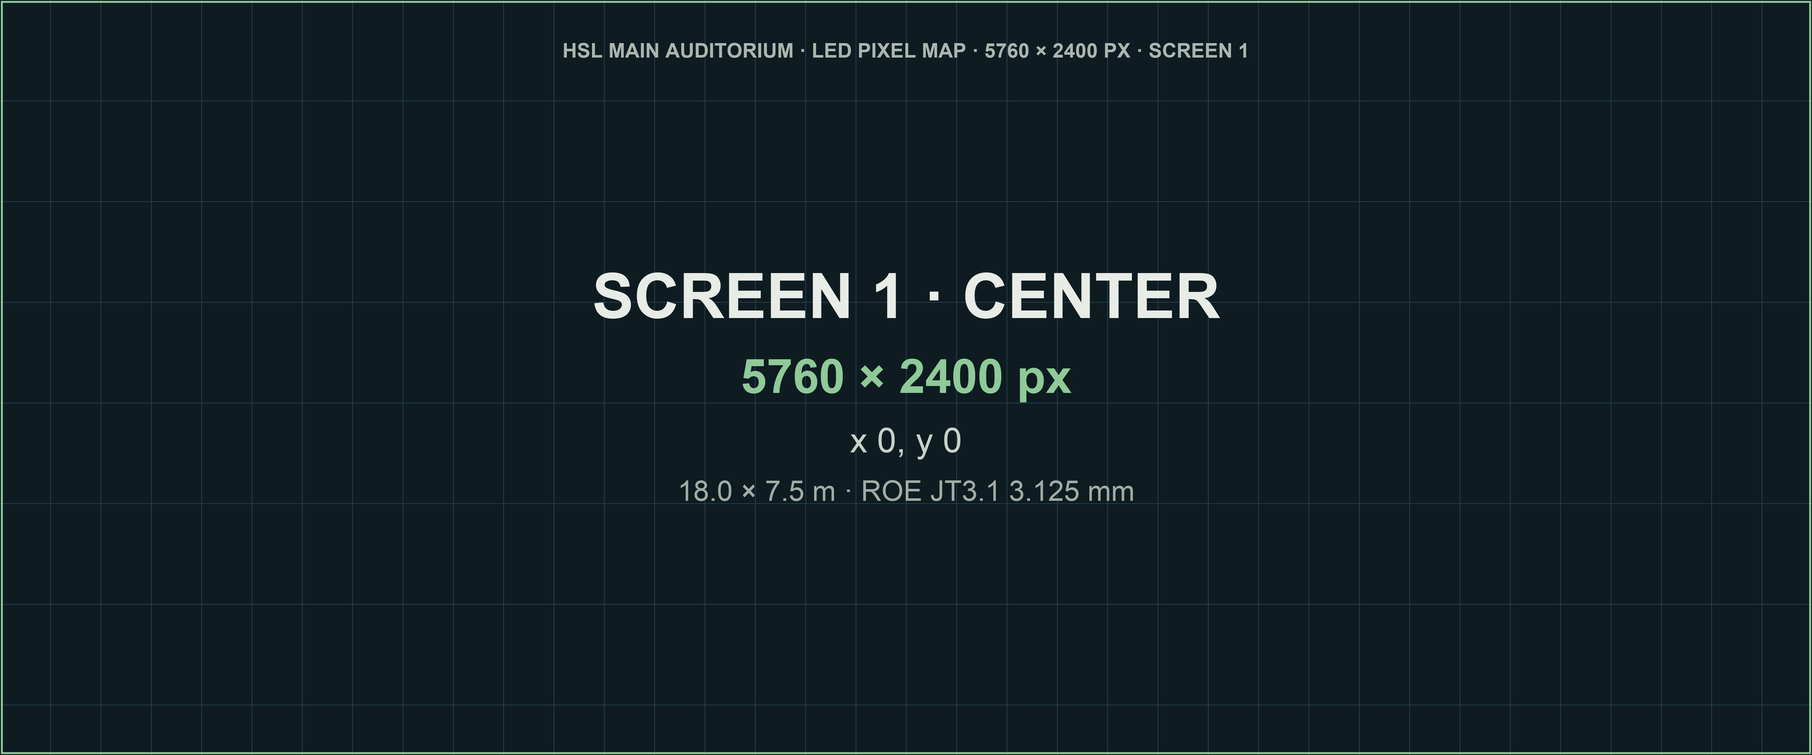
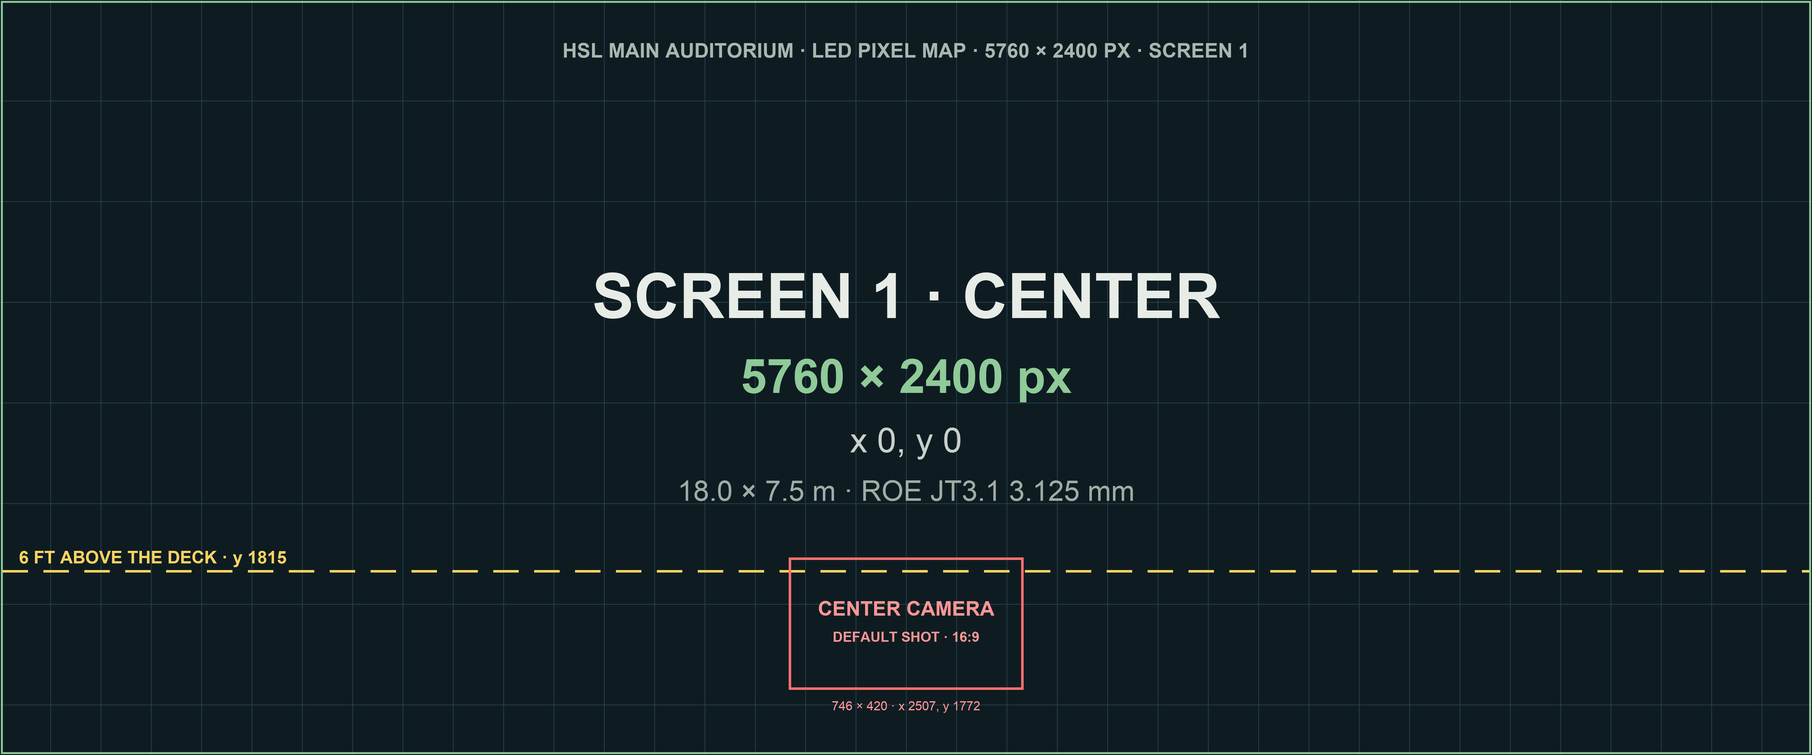
Add screen air gaps, camera box, 6 ft line and a video loader
The three-screen templates are now 12640 wide with a 560 px air gap either
side of Screen 1. Every template marks the center camera's default shot and
a 6 ft line on each screen. Editors can load a video; ProRes plays in Safari.

diff --git a/index.html b/index.html
@@ -154,6 +154,8 @@ h2 { margin: 0; font: 800 10.5px/1.25 var(--f-ui); letter-spacing: 0.14em; text-
 .pixmap svg { display: block; width: 100%; height: auto; }
 .px-scr { fill: var(--plan-bg); stroke: var(--plan); stroke-width: 2; }
 .px-ris { fill: var(--amber-bg); stroke: var(--amber); stroke-width: 2; }
+.px-gap { fill: none; stroke: var(--ink-2); stroke-width: 2; stroke-dasharray: 6 5; }
+.px-cam { fill: none; stroke: var(--warn); stroke-width: 3; }
 .px-t { fill: var(--ink); font: 800 40px var(--f-ui); text-anchor: middle; }
 .px-s { fill: var(--ink-2); font: 500 30px var(--f-mono); text-anchor: middle; }
 .px-n { fill: var(--ink-2); font: italic 400 26px var(--f-text); text-anchor: middle; }
@@ -190,6 +192,11 @@ details.truss .ctl.all label { font-weight: 800; }
 .dl a:hover { background: var(--accent-soft); border-color: var(--accent); }
 .dl a small { font: 500 11px/1.2 var(--f-mono); font-variant-numeric: tabular-nums; color: var(--ink-2); }
 .file input { position: absolute; width: 1px; height: 1px; opacity: 0; }
+.loads { display: grid; grid-template-columns: repeat(2, minmax(0, 1fr)); gap: 6px; }
+.vctl { display: grid; grid-template-columns: auto minmax(0, 1fr) auto; align-items: center; gap: 10px; }
+.vctl .btn { min-width: 64px; }
+.vctl input[type="range"] { width: 100%; margin: 0; accent-color: var(--accent); }
+.vctl output { font: 600 12px/1 var(--f-mono); font-variant-numeric: tabular-nums; color: var(--ink); }
 
 table.sight { width: 100%; border-collapse: collapse; font: 500 12px/1.3 var(--f-mono); font-variant-numeric: tabular-nums; }
 table.sight th { text-align: left; font: 700 9.5px/1.2 var(--f-ui); letter-spacing: 0.1em; text-transform: uppercase; color: var(--ink-2); padding: 0 0 6px; }
@@ -328,51 +335,66 @@ textarea.copytxt { width: 100%; min-height: 150px; font: 500 11.5px/1.45 var(--f
       <div class="pseg" role="group" aria-label="Screen content">
         <button type="button" data-content="layout" aria-pressed="true">Cabinet layout</button>
         <button type="button" data-content="sample" aria-pressed="false">Sample</button>
-        <button type="button" data-content="file" aria-pressed="false" disabled>Your PNG</button>
+        <button type="button" data-content="file" aria-pressed="false" disabled>Your file</button>
       </div>
-      <label class="file" for="pixmapFile">Load a pixel-map PNG<input type="file" id="pixmapFile" accept="image/png,image/jpeg,image/webp"></label>
+      <div class="loads">
+        <label class="file" for="pixmapFile">Load a pixel-map PNG<input type="file" id="pixmapFile" accept="image/png,image/jpeg,image/webp"></label>
+        <label class="file" for="videoFile">Load a video<input type="file" id="videoFile" accept="video/mp4,video/webm,video/quicktime,.mp4,.m4v,.webm,.mov"></label>
+      </div>
       <p class="read bad" id="pixmapWarn" hidden></p>
+      <div class="vctl" id="vidCtl" role="group" aria-label="Video playback" hidden>
+        <button type="button" class="btn" id="vidPlay">Pause</button>
+        <input type="range" id="vidTime" min="0" max="1000" step="1" value="0" aria-label="Video position">
+        <output id="vidTimeO" for="vidTime">0:00 / 0:00</output>
+      </div>
+      <p class="note">Videos play muted on a loop. Export an H.264 MP4 in the shape of one of the sizes below. A quarter-size file plays smoothly: 3160 × 640 for the full map, 3160 × 600 for the three screens, 1600 × 640 for Screen 1 and the risers, 1440 × 600 for Screen 1. ProRes plays only in Safari on a Mac, not in Chrome or Edge.</p>
       <figure class="pixmap">
-        <svg viewBox="0 0 1152 352" role="img" aria-label="Pixel map: Screen 2, Screen 1 and Screen 3 across the top, the keys and drums riser wraps in a strip centered under Screen 1">
-          <rect class="px-scr" x="1" y="1" width="286" height="238"/><rect class="px-scr" x="289" y="1" width="574" height="238"/><rect class="px-scr" x="865" y="1" width="286" height="238"/>
+        <svg viewBox="0 0 1264 352" role="img" aria-label="Pixel map: Screen 2, Screen 1 and Screen 3 across the top with an air gap either side of Screen 1, the keys and drums riser wraps in a strip centered under Screen 1">
+          <rect class="px-scr" x="1" y="1" width="286" height="238"/><rect class="px-scr" x="345" y="1" width="574" height="238"/><rect class="px-scr" x="977" y="1" width="286" height="238"/>
+          <rect class="px-gap" x="291" y="3" width="50" height="234"/><rect class="px-gap" x="923" y="3" width="50" height="234"/>
           <text class="px-t" x="144" y="112">SCREEN 2</text><text class="px-s" x="144" y="152">2880 × 2400</text>
-          <text class="px-t" x="576" y="112">SCREEN 1</text><text class="px-s" x="576" y="152">5760 × 2400</text>
-          <text class="px-t" x="1008" y="112">SCREEN 3</text><text class="px-s" x="1008" y="152">2880 × 2400</text>
-          <rect class="px-ris" x="257" y="250" width="79" height="60"/><rect class="px-ris" x="337" y="250" width="159" height="60"/><rect class="px-ris" x="497" y="250" width="79" height="60"/>
-          <rect class="px-ris" x="577" y="250" width="79" height="60"/><rect class="px-ris" x="657" y="250" width="159" height="60"/><rect class="px-ris" x="817" y="250" width="79" height="60"/>
-          <text class="px-s" x="416" y="291">KEYS</text><text class="px-s" x="736" y="291">DRUMS</text>
-          <text class="px-n" x="576" y="342">riser row drawn taller than scale</text>
+          <text class="px-t" x="632" y="112">SCREEN 1</text><text class="px-s" x="632" y="152">5760 × 2400</text>
+          <text class="px-t" x="1120" y="112">SCREEN 3</text><text class="px-s" x="1120" y="152">2880 × 2400</text>
+          <rect class="px-cam" x="595" y="178" width="74" height="42"/>
+          <rect class="px-ris" x="313" y="250" width="79" height="60"/><rect class="px-ris" x="393" y="250" width="159" height="60"/><rect class="px-ris" x="553" y="250" width="79" height="60"/>
+          <rect class="px-ris" x="633" y="250" width="79" height="60"/><rect class="px-ris" x="713" y="250" width="159" height="60"/><rect class="px-ris" x="873" y="250" width="79" height="60"/>
+          <text class="px-s" x="472" y="291">KEYS</text><text class="px-s" x="792" y="291">DRUMS</text>
+          <text class="px-n" x="632" y="342">riser row drawn taller than scale</text>
         </svg>
       </figure>
       <table class="sight pxmap">
         <thead><tr><th colspan="2">File sizes you can load</th></tr></thead>
         <tbody>
-          <tr><td>All three screens and both riser wraps</td><td>11520 × 2560</td></tr>
-          <tr><td>All three screens</td><td>11520 × 2400</td></tr>
+          <tr><td>All three screens and both riser wraps</td><td>12640 × 2560</td></tr>
+          <tr><td>All three screens</td><td>12640 × 2400</td></tr>
           <tr><td>Screen 1 and both riser wraps</td><td>6400 × 2560</td></tr>
           <tr><td>Screen 1</td><td>5760 × 2400</td></tr>
         </tbody>
       </table>
       <div class="dl" role="group" aria-label="Download a labeled template">
         <span class="k">Download a labeled template</span>
-        <a href="hsl-pixel-map-11520x2560.png" target="_blank" rel="noopener" data-dl>Full map<small>11520 × 2560</small></a>
-        <a href="hsl-pixel-map-11520x2400-screens.png" target="_blank" rel="noopener" data-dl>Three screens<small>11520 × 2400</small></a>
+        <a href="hsl-pixel-map-12640x2560.png" target="_blank" rel="noopener" data-dl>Full map<small>12640 × 2560</small></a>
+        <a href="hsl-pixel-map-12640x2400-screens.png" target="_blank" rel="noopener" data-dl>Three screens<small>12640 × 2400</small></a>
         <a href="hsl-pixel-map-6400x2560-screen-1-risers.png" target="_blank" rel="noopener" data-dl>Screen 1 + risers<small>6400 × 2560</small></a>
         <a href="hsl-pixel-map-5760x2400-screen-1.png" target="_blank" rel="noopener" data-dl>Screen 1<small>5760 × 2400</small></a>
         <p class="note dl-note" id="dlNote" aria-live="polite" hidden></p>
       </div>
-      <p class="note">The page reads a file's size to know what it fills. A 6400 × 2560 file is the full map cropped to x 2560–8960, so Screen 1 sits at x 320 with the riser strip along the bottom. Anything a file doesn't cover goes dark.</p>
+      <p class="note">The page reads a file's size to know what it fills. A 6400 × 2560 file is the full map cropped to x 3120–9520, so Screen 1 sits at x 320 with the riser strip along the bottom. Anything a file doesn't cover goes dark.</p>
       <table class="sight pxmap">
         <thead><tr><th>In the full map</th><th>Pixels</th><th>At x, y</th></tr></thead>
         <tbody>
           <tr><td>Screen 2, house left</td><td>2880 × 2400</td><td>0, 0</td></tr>
-          <tr><td>Screen 1, center</td><td>5760 × 2400</td><td>2880, 0</td></tr>
-          <tr><td>Screen 3, house right</td><td>2880 × 2400</td><td>8640, 0</td></tr>
-          <tr><td>Keys wrap: outer end, front, inner end</td><td>800 + 1600 + 800<br>× 160</td><td>2560, 2400</td></tr>
-          <tr><td>Drums wrap: inner end, front, outer end</td><td>800 + 1600 + 800<br>× 160</td><td>5760, 2400</td></tr>
+          <tr><td>Air gap, no LED</td><td>560 × 2400</td><td>2880, 0</td></tr>
+          <tr><td>Screen 1, center</td><td>5760 × 2400</td><td>3440, 0</td></tr>
+          <tr><td>Air gap, no LED</td><td>560 × 2400</td><td>9200, 0</td></tr>
+          <tr><td>Screen 3, house right</td><td>2880 × 2400</td><td>9760, 0</td></tr>
+          <tr><td>Keys wrap: outer end, front, inner end</td><td>800 + 1600 + 800<br>× 160</td><td>3120, 2400</td></tr>
+          <tr><td>Drums wrap: inner end, front, outer end</td><td>800 + 1600 + 800<br>× 160</td><td>6320, 2400</td></tr>
+          <tr><td>Center camera, default shot (16:9)</td><td>746 × 420</td><td>5947, 1772</td></tr>
+          <tr><td>6′ above the deck, dashed</td><td>every screen</td><td>y 1815</td></tr>
         </tbody>
       </table>
-      <p class="note">The full map puts the three screens at their native resolution across the top and both riser wraps in a strip centered under Screen 1, each wrap reading left to right as seen from the house. The risers are ROE JT3.1 500 mm half panels at 160 px each: ten across each front, five on each end. Files you load stay in this browser.</p>
+      <p class="note">The full map lays the three screens side by side at their native resolution, as if they stood in one plane. A 560 px air gap with no LED sits between Screen 1 and each side screen: the 5′-8½″ in the working layout. Both riser wraps sit in a strip centered under Screen 1, each wrap reading left to right as seen from the house. The risers are ROE JT3.1 500 mm half panels at 160 px each: ten across each front, five on each end. The red box on Screen 1 is what the center camera takes in at its default shot. The dashed yellow line on each screen is 6′ above the deck, where all three screens stand. Files you load stay in this browser.</p>
     </section>
 
     <section class="sec" aria-labelledby="h-scen">
@@ -411,7 +433,7 @@ textarea.copytxt { width: 100%; min-height: 150px; font: 500 11.5px/1.45 var(--f
         <p class="read" id="s-read"></p>
       </div>
 
-      <p class="note" id="placeNote">The screens sit where they will hang in February 2027. Load a pixel-map PNG above to see your graphics in the room, then use the seat buttons above the model to check them from the house.</p>
+      <p class="note" id="placeNote">The screens sit where they will hang in February 2027. Load a pixel-map PNG or a video above to see your content in the room, then use the seat and camera buttons above the model to check it from the house.</p>
       <div class="btnrow full-only">
         <button type="button" class="btn primary" id="copyBtn">Copy placement</button>
         <button type="button" class="btn" id="resetBtn">Reset to working layout</button>
@@ -1114,29 +1136,43 @@ for (const c of CAMS.filter(k => k.tilts)) {
 /* =====================================================================================
    5. SCREENS
    ===================================================================================== */
-// Pixel map: the full map is one 11520 × 2560 PNG for every LED surface. Rectangles are [x, y, w, h] in map
-// pixels and must match make_pixel_map_template.py. Riser wraps are ROE JT3.1 500 mm half panels (160 px each,
-// Solotech quote), five panels on every end and ten across each front. They read left to right as seen from the
-// house and sit centered under Screen 1, keys and drums meeting on its centerline.
+// Pixel map: the full map is one 12640 × 2560 file for every LED surface. Rectangles are [x, y, w, h] in map
+// pixels and must match make_pixel_map_template.py. The three screens sit in one plane with an air gap of no LED
+// between Screen 1 and each side screen (Brian, 18 Oct): 5'-8½" in the working layout, 560 px. Riser wraps are
+// ROE JT3.1 500 mm half panels (160 px each, Solotech quote), five panels on every end and ten across each front.
+// They read left to right as seen from the house and sit centered under Screen 1, keys and drums meeting on its
+// centerline.
 // sizes: the files a designer can load, listed under the drawing in "On the screens". Each is the map cropped to
-// start at map x `x`; a surface fills only when it sits wholly inside the crop, and the rest go dark.
+// start at map x `x`; a surface fills only when it sits wholly inside the crop, and the rest go dark. The first maps
+// (15 Oct) had no gaps; those two sizes still load, sliced as they were drawn.
+const MAP_GAP = 560;
+function mapRegions(gap) {
+  const s1 = 2880 + gap, s3 = s1 + 5760 + gap, rx = s1 - 320;
+  return {
+    left: [0, 0, 2880, 2400], center: [s1, 0, 5760, 2400], right: [s3, 0, 2880, 2400],
+    keysOuter: [rx, 2400, 800, 160], keysFront: [rx + 800, 2400, 1600, 160], keysInner: [rx + 2400, 2400, 800, 160],
+    drumsInner: [rx + 3200, 2400, 800, 160], drumsFront: [rx + 4000, 2400, 1600, 160], drumsOuter: [rx + 5600, 2400, 800, 160],
+  };
+}
+const MAP_W = 2 * 2880 + 5760 + 2 * MAP_GAP;
 const PIXMAP = {
-  regions: {
-    left: [0, 0, 2880, 2400], center: [2880, 0, 5760, 2400], right: [8640, 0, 2880, 2400],
-    keysOuter: [2560, 2400, 800, 160], keysFront: [3360, 2400, 1600, 160], keysInner: [4960, 2400, 800, 160],
-    drumsInner: [5760, 2400, 800, 160], drumsFront: [6560, 2400, 1600, 160], drumsOuter: [8160, 2400, 800, 160],
-  },
+  regions: mapRegions(MAP_GAP),
   sizes: [
-    { w: 11520, h: 2560, x: 0, fills: 'all three screens and both riser wraps' },
-    { w: 11520, h: 2400, x: 0, fills: 'all three screens' },
-    { w: 6400, h: 2560, x: 2560, fills: 'Screen 1 and both riser wraps' },
-    { w: 5760, h: 2400, x: 2880, fills: 'Screen 1' },
+    { w: MAP_W, h: 2560, x: 0, fills: 'all three screens and both riser wraps' },
+    { w: MAP_W, h: 2400, x: 0, fills: 'all three screens' },
+    { w: 6400, h: 2560, x: 2880 + MAP_GAP - 320, fills: 'Screen 1 and both riser wraps' },
+    { w: 5760, h: 2400, x: 2880 + MAP_GAP, fills: 'Screen 1' },
+  ],
+  legacy: [
+    { w: 11520, h: 2560, x: 0, fills: 'all three screens and both riser wraps', regions: mapRegions(0) },
+    { w: 11520, h: 2400, x: 0, fills: 'all three screens', regions: mapRegions(0) },
   ],
 };
 let content = 'layout';
 let showImg = null, showSize = null;   // the loaded file and the PIXMAP.sizes entry it fills
+let fileKind = null;                   // 'image' or 'video': whichever was loaded last
 function drawRegion(ctx, w, h, key) {   // paint one surface's slice of the loaded file, as the processor would
-  const r = content === 'file' && showImg && PIXMAP.regions[key], s = showSize;
+  const s = showSize, r = content === 'file' && fileKind === 'image' && showImg && (s.regions || PIXMAP.regions)[key];
   if (!r) return false;
   ctx.fillStyle = '#000';
   ctx.fillRect(0, 0, w, h);
@@ -1214,7 +1250,7 @@ function makeScreen(spec, mirror = 0, region = null) {
   back.position.z = -0.16;
   g.add(face, back);
   scene.add(g);
-  const scr = { spec, g, canvas, tex, mirror, region };
+  const scr = { spec, g, canvas, tex, mirror, region, key: region, mat: face.material };
   drawScreen(scr);
   return scr;
 }
@@ -1259,10 +1295,11 @@ function riserFace(len, key) {
   canvas.width = Math.round(120 * len); canvas.height = Math.round(120 * RISER.h);
   const tex = new THREE.CanvasTexture(canvas);
   tex.colorSpace = THREE.SRGBColorSpace;
-  const f = { canvas, tex, len, key };
+  const mesh = new THREE.Mesh(new THREE.PlaneGeometry(len, RISER.h), new THREE.MeshBasicMaterial({ map: tex, toneMapped: false }));
+  const f = { canvas, tex, len, key, mat: mesh.material };
   riserFaces.push(f);
   drawRiserFace(f);
-  return new THREE.Mesh(new THREE.PlaneGeometry(len, RISER.h), new THREE.MeshBasicMaterial({ map: tex, toneMapped: false }));
+  return mesh;
 }
 // Local frame: x across the stage (world x), front edge at z = 0, upstage toward −z
 function makeRiser(side, deepOuterHalf) {   // side −1 = house left (stage right), +1 = house right (stage left)
@@ -2010,11 +2047,42 @@ function setScenario(s) {
   document.getElementById('caption').innerHTML = caption(current);
 }
 document.querySelectorAll('[data-scen]').forEach(b => b.addEventListener('click', () => setScenario(b.dataset.scen)));
+// An editor's video, kept in this browser only: it plays muted on a loop and fills the surfaces its shape picks,
+// exactly as a PNG of that shape would. One video texture is shared, and each surface samples its own rectangle of it.
+const vid = Object.assign(document.createElement('video'), { muted: true, loop: true, playsInline: true, preload: 'auto' });
+let vidURL = null, vidTex = null, vidHeld = false;   // vidHeld: the viewer paused it
+const vidCtl = document.getElementById('vidCtl'), vidPlay = document.getElementById('vidPlay'), vidTime = document.getElementById('vidTime');
+const ledSurfaces = () => [SCR.center, SCR.left, SCR.right, ...riserFaces];
+function mapVideo() {   // each surface shows its rectangle of the video, goes dark when the file leaves it out, or shows its canvas
+  const on = content === 'file' && fileKind === 'video' && vidTex, s = showSize;
+  for (const o of ledSurfaces()) {
+    const r = on && PIXMAP.regions[o.key];
+    let map = o.tex, color = 0xffffff;
+    if (on && (r[0] < s.x || r[0] + r[2] > s.x + s.w || r[1] + r[3] > s.h)) { map = null; color = 0x000000; }
+    else if (on) {
+      map = o.vt || (o.vt = vidTex.clone());
+      map.offset.set((r[0] - s.x) / s.w, 1 - (r[1] + r[3]) / s.h);
+      map.repeat.set(r[2] / s.w, r[3] / s.h);
+    }
+    if (o.mat.map !== map) { o.mat.map = map; o.mat.needsUpdate = true; }
+    o.mat.color.setHex(color);
+  }
+  if (on && !vidHeld) vid.play().catch(() => {});
+  else vid.pause();
+  vidCtl.hidden = !on;
+  needsRender = true;
+}
+function fileButton(kind) {
+  const b = document.querySelector('[data-content="file"]');
+  b.disabled = !kind;
+  b.textContent = kind === 'video' ? 'Your video' : kind === 'image' ? 'Your PNG' : 'Your file';
+}
 function setContent(mode) {
   content = mode;
   document.querySelectorAll('[data-content]').forEach(x => x.setAttribute('aria-pressed', String(x.dataset.content === mode)));
   Object.values(SCR).forEach(drawScreen);
   riserFaces.forEach(drawRiserFace);
+  mapVideo();
   needsRender = true;
 }
 document.querySelectorAll('[data-content]').forEach(b => b.addEventListener('click', () => setContent(b.dataset.content)));
@@ -2098,13 +2166,16 @@ document.getElementById('pixmapFile').addEventListener('change', e => {
   const img = new Image();
   img.onload = () => {
     const w = img.naturalWidth, h = img.naturalHeight, off = s => Math.abs(Math.log(w / h * s.h / s.w));
-    const exact = PIXMAP.sizes.find(s => s.w === w && s.h === h);
+    const exact = PIXMAP.sizes.find(s => s.w === w && s.h === h), first = PIXMAP.legacy.find(s => s.w === w && s.h === h);
     showImg = img;
-    showSize = exact || PIXMAP.sizes.reduce((a, s) => off(s) < off(a) ? s : a);
+    fileKind = 'image';
+    showSize = exact || first || PIXMAP.sizes.reduce((a, s) => off(s) < off(a) ? s : a);
     const scaled = off(showSize) < 0.005;
-    el.textContent = exact ? '' : `This file is ${w} × ${h}, not one of the sizes listed below, so it was ${scaled ? 'scaled' : 'stretched'} to fill ${showSize.fills}.${scaled ? '' : ' Expect distortion.'}`;
+    el.textContent = exact ? ''
+      : first ? `This ${w} × ${h} file is on the first map, which had no gaps between the screens. It still fills ${first.fills} as drawn. Build new files on the ${MAP_W}-wide template.`
+      : `This file is ${w} × ${h}, not one of the sizes listed below, so it was ${scaled ? 'scaled' : 'stretched'} to fill ${showSize.fills}.${scaled ? '' : ' Expect distortion.'}`;
     el.hidden = !!exact;
-    document.querySelector('[data-content="file"]').disabled = false;
+    fileButton('image');
     setContent('file');
   };
   img.onerror = () => {
@@ -2112,6 +2183,65 @@ document.getElementById('pixmapFile').addEventListener('change', e => {
     el.hidden = false;
   };
   img.src = URL.createObjectURL(f);
+});
+// An editor's video: the shape of its frame picks the PIXMAP.sizes entry (videos come scaled down, so only the shape
+// counts), and the surfaces switch over once the first frame has decoded
+document.getElementById('videoFile').addEventListener('change', e => {
+  const f = e.target.files && e.target.files[0], el = document.getElementById('pixmapWarn');
+  if (!f) return;
+  let size = null;
+  vid.onloadedmetadata = () => {
+    const w = vid.videoWidth, h = vid.videoHeight, off = s => Math.abs(Math.log(w / h * s.h / s.w));
+    size = PIXMAP.sizes.reduce((a, s) => off(s) < off(a) ? s : a);
+    const fits = off(size) < 0.005;
+    el.textContent = fits ? '' : `This video is ${w} × ${h}, which isn't the shape of any size listed below, so it was stretched to fill ${size.fills}. Expect distortion.`;
+    el.hidden = fits;
+    vid.play().catch(() => {});   // some browsers decode the first frame only once it plays
+  };
+  vid.onloadeddata = () => {
+    for (const o of ledSurfaces()) { o.vt?.dispose(); o.vt = null; }
+    vidTex?.dispose();
+    vidTex = new THREE.VideoTexture(vid);
+    vidTex.colorSpace = THREE.SRGBColorSpace;
+    showSize = size; showImg = null; fileKind = 'video'; vidHeld = false;
+    fileButton('video');
+    setContent('file');
+  };
+  vid.onerror = async () => {
+    el.textContent = await isProRes(f)
+      ? `${f.name} is ProRes, which this browser can't play. Safari on a Mac plays ProRes; Chrome and Edge don't. Open this page in Safari, or export an H.264 MP4.`
+      : `${f.name} won't play in this browser. Export it as an H.264 MP4 and try again.`;
+    el.hidden = false;
+    if (fileKind === 'video') { fileKind = null; fileButton(null); setContent('layout'); }
+  };
+  if (vidURL) URL.revokeObjectURL(vidURL);
+  vidURL = URL.createObjectURL(f);
+  vid.src = vidURL;
+});
+// ProRes is the usual edit export, and only Safari plays it (Chrome 152 and Safari 26 checked, 18 Oct). When a video
+// won't play, look for a ProRes codec tag in its moov box, which sits at the start or the end of the file.
+async function isProRes(f) {
+  const tags = /ap4[hx]|apc[nhso]/, look = async (a, b) => new TextDecoder('latin1').decode(await f.slice(a, b).arrayBuffer());
+  try { return tags.test(await look(0, 1 << 20)) || tags.test(await look(Math.max(0, f.size - (4 << 20)), f.size)); }
+  catch { return false; }
+}
+const clock = t => `${Math.floor(t / 60)}:${String(Math.floor(t % 60)).padStart(2, '0')}`;
+let scrubAt = 0;   // while the viewer drags the position slider, playback doesn't pull it back
+function vidReadout() {
+  const d = vid.duration || 0;
+  vidPlay.textContent = vid.paused ? 'Play' : 'Pause';
+  if (performance.now() - scrubAt > 400) vidTime.value = String(d ? Math.round(vid.currentTime / d * 1000) : 0);
+  document.getElementById('vidTimeO').textContent = `${clock(vid.currentTime)} / ${clock(d)}`;
+}
+for (const ev of ['play', 'pause', 'timeupdate', 'durationchange']) vid.addEventListener(ev, vidReadout);
+vid.addEventListener('seeked', () => { for (const o of ledSurfaces()) if (o.vt) o.vt.needsUpdate = true; needsRender = true; });
+vidPlay.addEventListener('click', () => {
+  vidHeld = !vid.paused;
+  if (vidHeld) vid.pause(); else vid.play().catch(() => {});
+});
+vidTime.addEventListener('input', () => {
+  scrubAt = performance.now();
+  if (vid.duration) vid.currentTime = +vidTime.value / 1000 * vid.duration;
 });
 // Template downloads: each link opens its PNG. Inside the claude.ai viewer the downloads capability saves the file
 // instead (the viewer confirms each save). The bytes go over as an ArrayBuffer, which every host can pass on (a Blob
@@ -2194,6 +2324,7 @@ function loop(now) {
   requestAnimationFrame(loop);
   if (tween) { stepTween(now); needsRender = true; }
   else if (controls.update()) needsRender = true;
+  if (content === 'file' && fileKind === 'video' && !vid.paused) needsRender = true;   // a playing video draws every frame
   // the 3D view's tilt, put back after every update (the orbit aims the camera at its center each frame)
   if (viewTilt && current === 'overview' && !tween) persp.rotateX(viewTilt * DEG);
   syncRoof();
